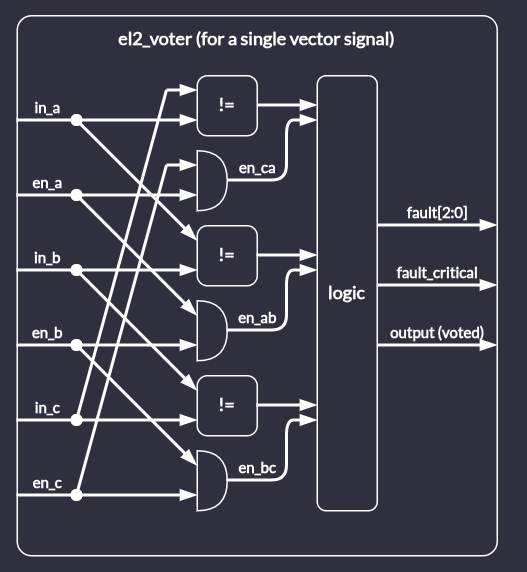
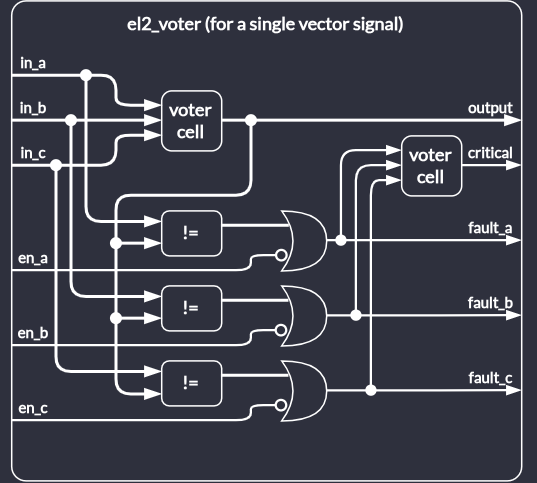
Update el2_tmr_voter documentation
Internal-tag: [#105874]

Changed region(s): [[0.0, 0.0, 1.0, 1.0]]

diff --git a/docs/source/triple-modular-redundancy.md b/docs/source/triple-modular-redundancy.md
@@ -56,23 +56,10 @@ The block diagram of the module is shown below:
 Block diagram of the voter module
 :::
 
-Each input has an associated enable input which is used to exclude a particular input from voting.
-There is also a fault output associated with each input which is used to indicate which one disagrees with the other two.
-In parallel to per-input fault status outputs, there is a critical fault output which is asserted when the true output signal state cannot be derived from active inputs.
-
-Depending on the number of enabled inputs, the module implements the following functionalities:
-
- - 3 inputs enabled
-
-   Majority voting with fault indication.
-
- - 2 inputs enabled
-
-   Disagreemend detection without particular fault indication.
-
- - 1 input enabled
-
-   Constant critical failure, unable to detect / correct a fault due to missing information.
+The module implements majority voting among its three data inputs.
+There's also the fault detection feature for each input.
+Faults are detected by bitwise comparison of each data input with the output voted consensus.
+Each of the three data inputs is associated with an enable input.
 
 ### Majority voting for AXI bus interfaces
 
